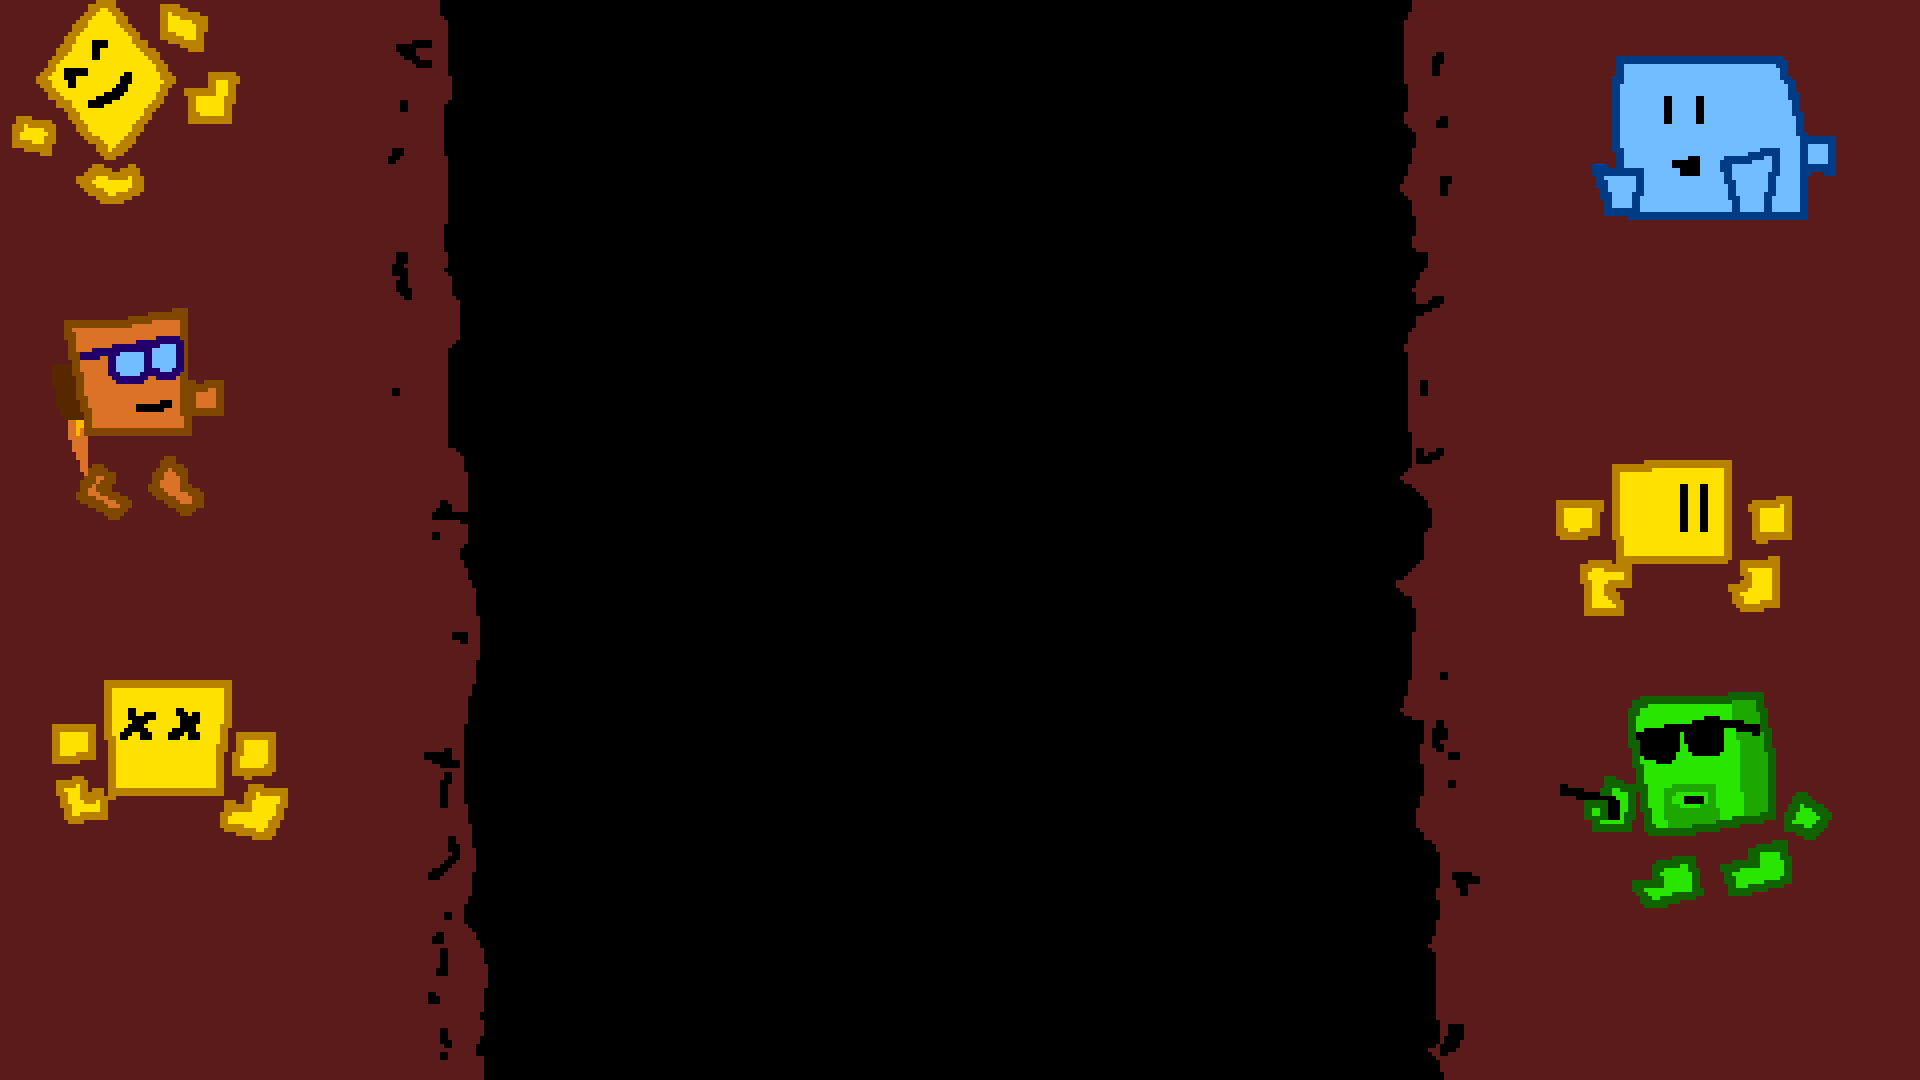
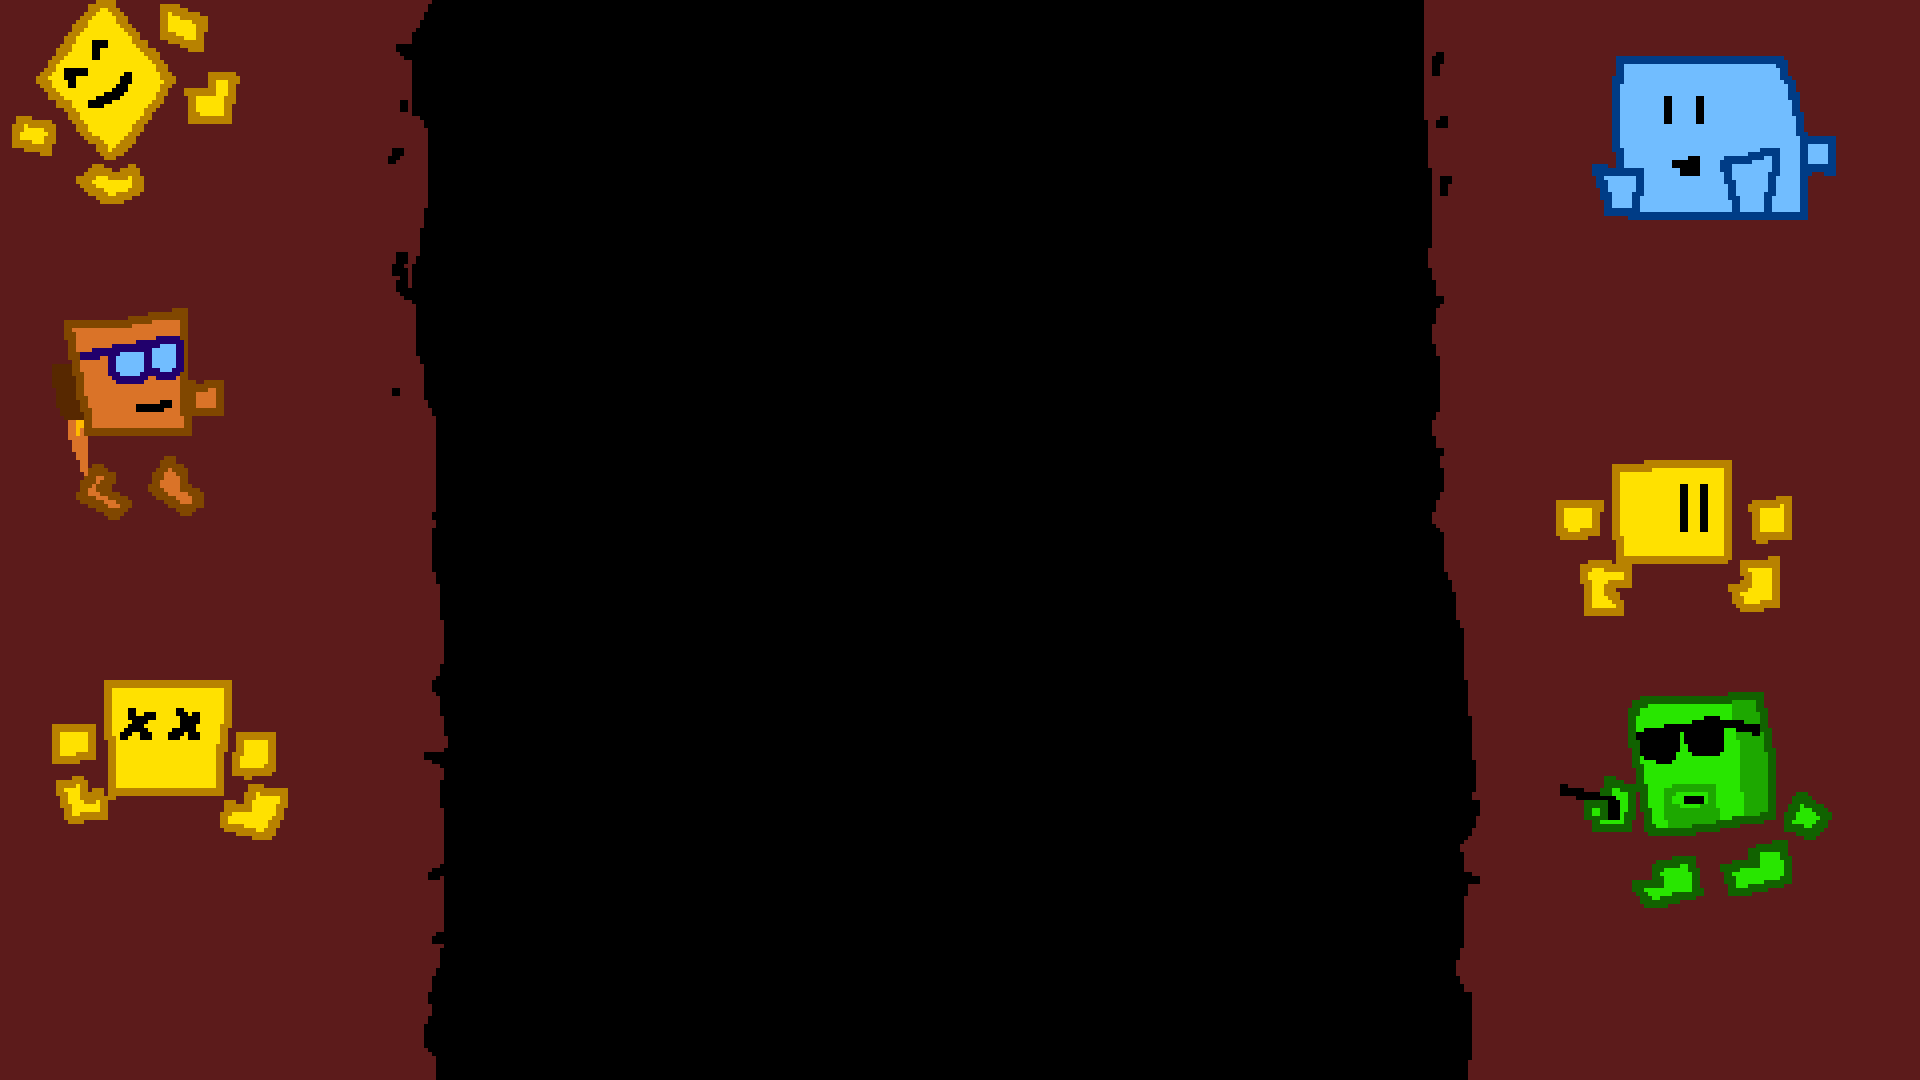
MORE

Changed region(s): [[0.1875, 0.0, 0.2812, 1.0], [0.7188, 0.4889, 0.7812, 1.0], [0.7188, 0.0, 0.75, 0.4583]]

diff --git a/styling.css b/styling.css
@@ -12,7 +12,7 @@ body{
     font-size: large;
     background-image: url("bgi.png");
     background-repeat: no-repeat;
-    background-position: center center;
+    background-position: center top;
     background-attachment: fixed;
     background-size: cover; 
 }
